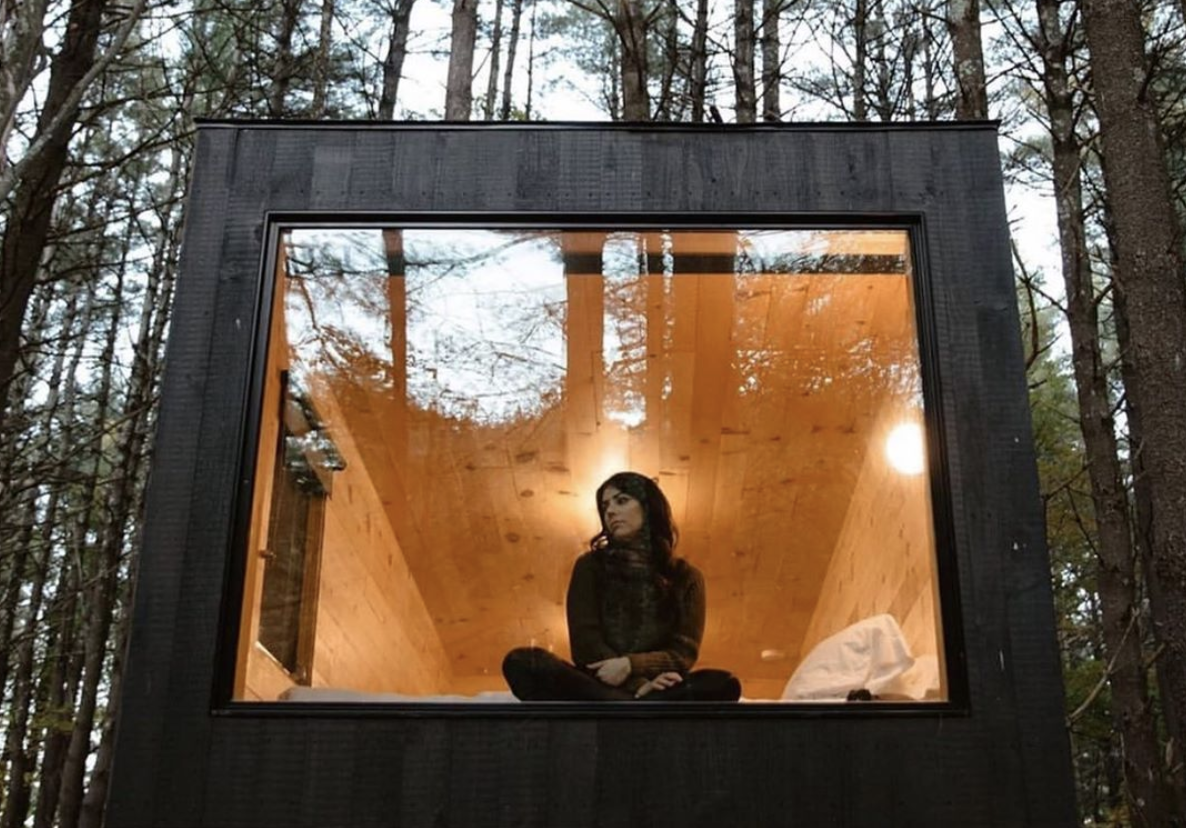
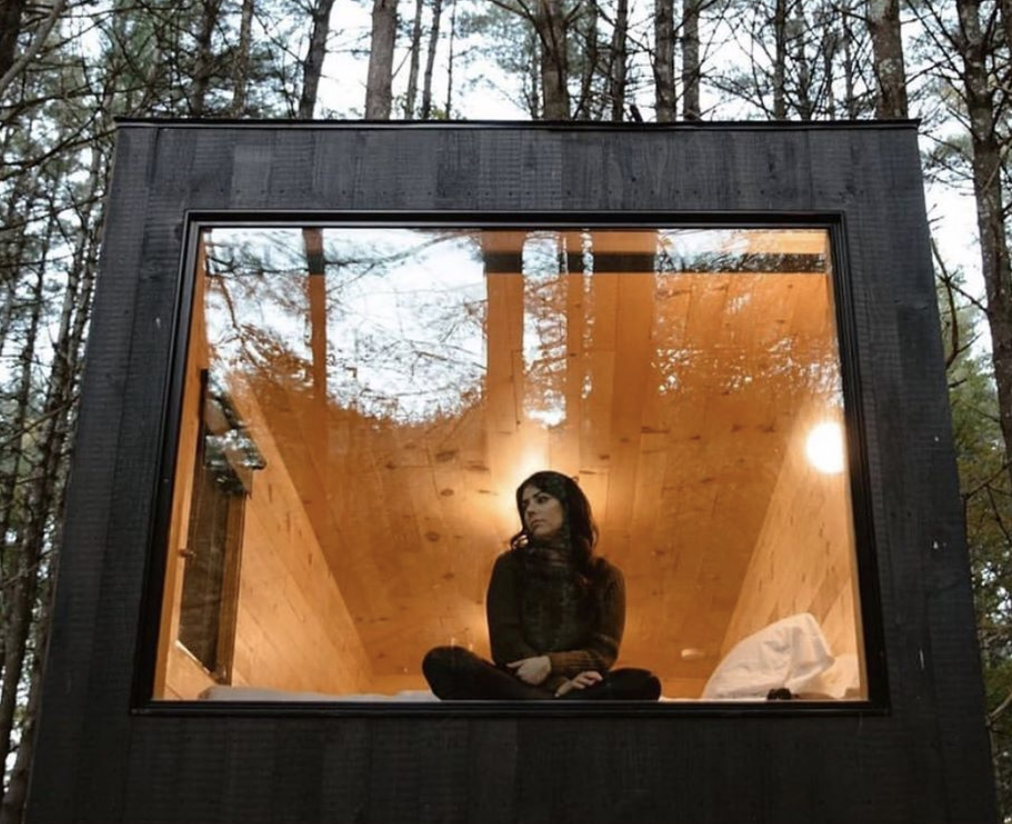
finalised pics

diff --git a/src/App.css b/src/App.css
@@ -245,6 +245,11 @@ line-height:50px;
 margin-top:100px;
 font-size:20px;}
 
+   .closing {position:relative;
+top:300px;
+left:50%;
+font-family: 'Patrick Hand SC';
+font-size: 20px;}
 
 /* THIN HAND DRAWN BUTTONS BEGINS! */
 
@@ -293,23 +298,33 @@ button.lined.thin:hover {
 
 .zoomableone {display:block;}
 
-.resptext {display:block;}
+.resptext {display:block;
+position:relative;}
 
-  .resptext {font-size:8px;
-    line-height:20px;
-    border:1px solid green;
-    color:red;
-    margin-top:200px;}
+  .resptext {font-size:18px;
+    line-height:25px;
+    
+    color:#212529;
+    bottom:300px;}
 
 
-  .resptexttwo {font-size:8px;
-    line-height:20px;
-    border:1px solid red;
-  color:red;
-    margin-top:200px;}
+  .resptexttwo {
+  position:relative;
+    font-size:18px;
+    line-height:25px;
+    
+  color:#212529;
+    bottom: 200px;}
+
+
+.closing {position:relative;
+top:100px;
+left:0px;
+font-family: 'Patrick Hand SC';}
 
 .carimages {
   font-family: 'Patrick Hand SC';
+  font-size:18px;
   background: transparent;
    border: solid 3px #41403e;
     

diff --git a/src/App.js b/src/App.js
@@ -16,6 +16,7 @@ import outside from './outside.png'
 import mountaincabin from './pics/mountaincabin.jpg'
 import inside from './inside.png'
 import yogi from './pics/yogi.png'
+import pjj from './pjimage.jpg'
 import MyCarousel from './Carousel.js'
 import Gallery from "react-photo-gallery";
 import Carousel, { Modal, ModalGateway } from "react-images";
@@ -94,12 +95,12 @@ Escape to a Cubby Cabin!
       </div>  
 
 <div className="galimg">
-      <div className="zoomableone">  <SingleSource src={yogi} /></div>
+      <div className="zoomableone">  <SingleSource src={pjj} /></div>
 
-<div className="resptext"> So whether you're a yogi, writer, philosopher or just want a change of scenery <br/> 
-    We have a cubby cabin for you <br/>
-     <br/></div>
-
+<div className="resptext"> So whether you're a yogi, writer, philosopher <br/> or just want a change of scenery... 
+   
+     </div>
+     <span className="closing"> We have a cubby cabin for you </span>
 
       </div>   
 

diff --git a/src/SingleSource.js b/src/SingleSource.js
@@ -10,7 +10,7 @@ function SingleSource({ src }) {
   return (
     <div>
       <Image className="carimages"
-        style={{ width: "450px", height: "450px" }}
+        
         zoomed={zoomed}
         src={src}
         onClick={() => setZoomed(true)}
